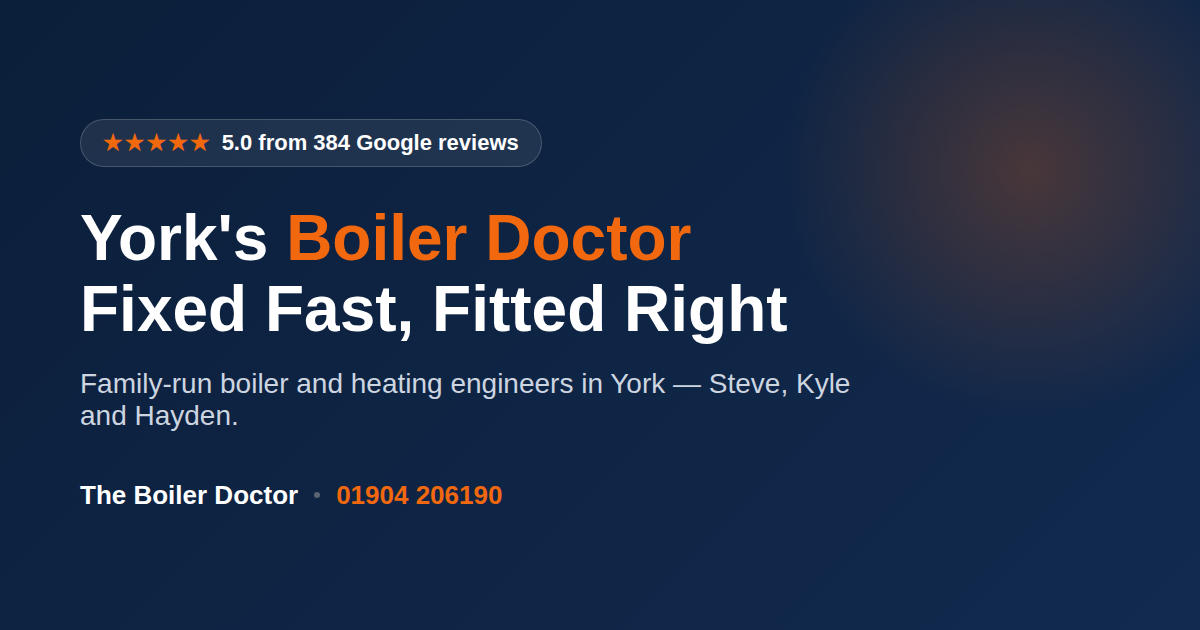
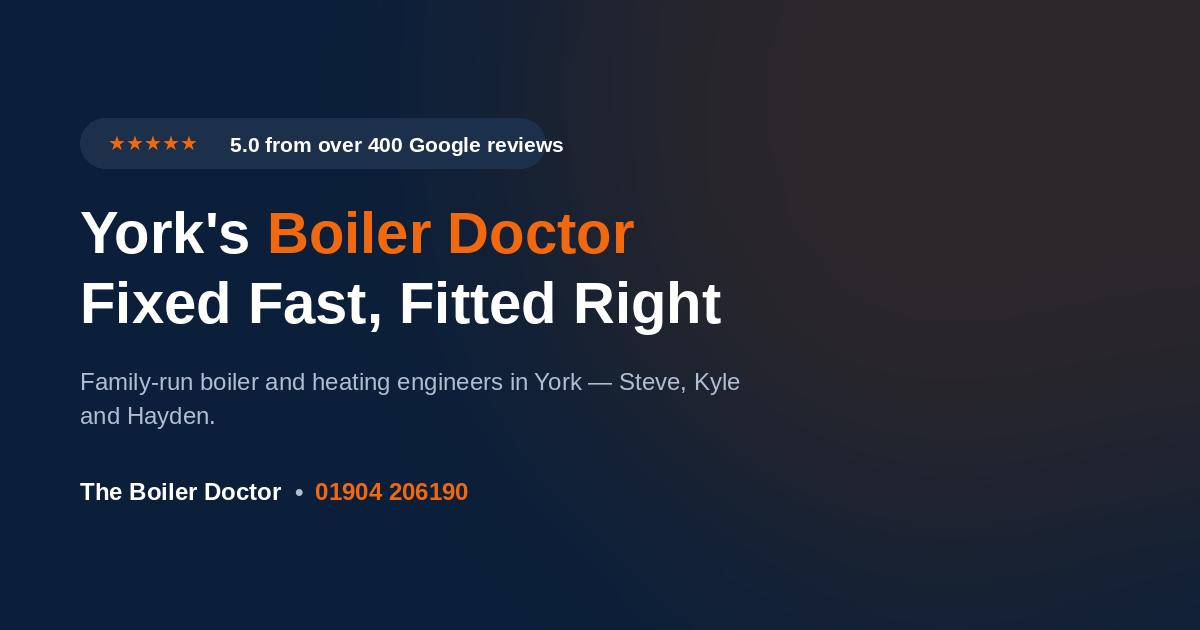
Update review count wording to over 400 site-wide
Steve is at 395 real Google reviews and expects to cross 400 by the time
this deploys, so every place on the site that quotes a review count now
says 'over 400' (prose) or '400+' (stat tiles, page titles) instead of the
stale 384. Bumped siteConfig.reviews.count to 400 as the new single source
of truth (schema.org reviewCount included), added a countLabel field for
the compact tag form, and regenerated the social-share OG image since it
had '384' baked into the graphic.

diff --git a/src/data/siteConfig.ts b/src/data/siteConfig.ts
@@ -39,9 +39,14 @@ export const siteConfig = {
 
   reviews: {
     rating: 5.0,
-    count: 384,
+    count: 400,
+    // Real Google count was 395 as of 9 Sep 2026; Steve asked for copy to say
+    // "over 400" / "400+" since he expects to cross it by the time this is live.
+    // countLabel is the compact tag form (stat tiles, page titles); prose
+    // components write "over" around the plain count themselves.
+    countLabel: "400+",
     // Pull fresh again right before launch — this figure moves daily.
-    asOf: "2026-08-28",
+    asOf: "2026-09-09",
   },
 
   yearsTrading: 18, // Steve started plumbing in 2008 — confirmed directly by Steve, 29 Aug 2026
